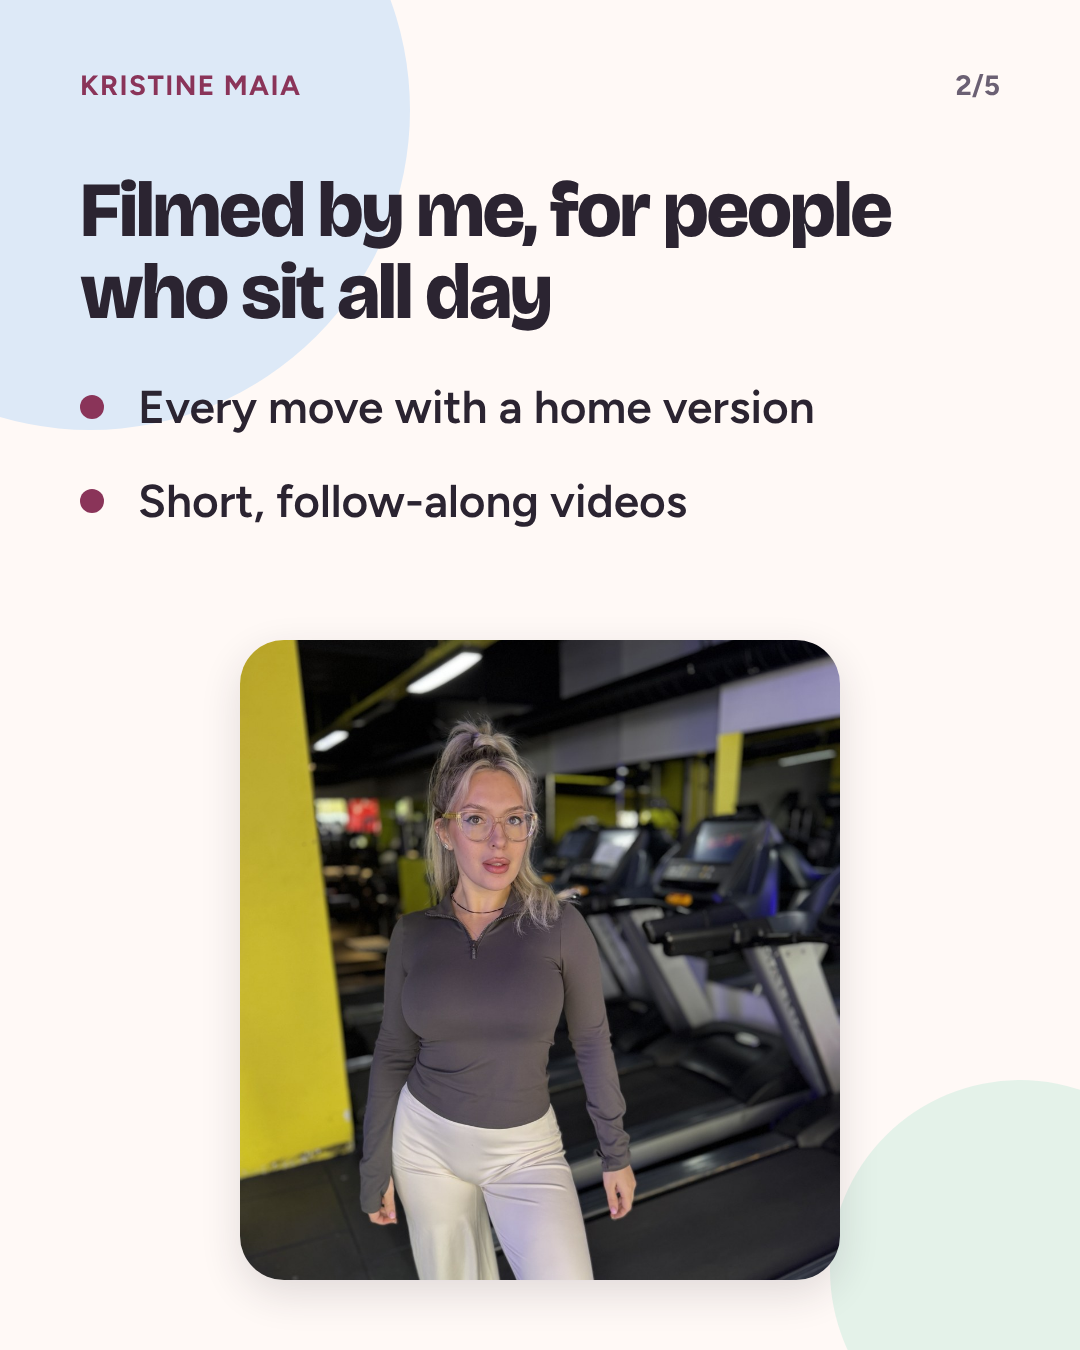
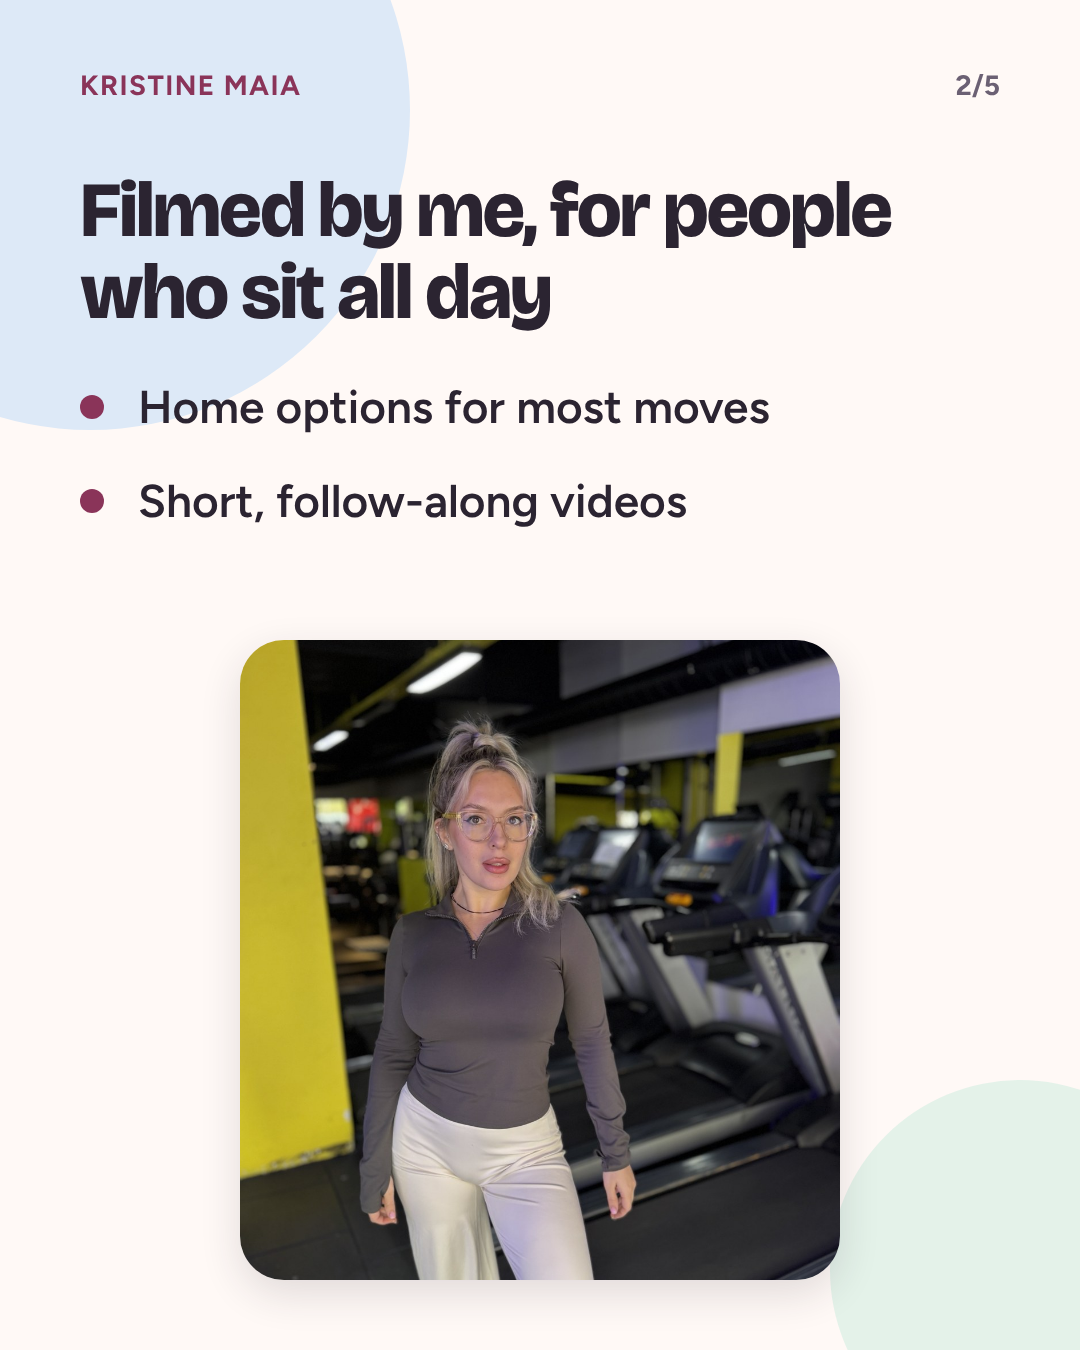
Caruselul W1: fără data lansării și fără „every move with a home version”
Claude-Session: https://claude.ai/code/session_01AYCYtwFQ1HqKG8gwud9c92

Changed region(s): [[0.1222, 0.28, 0.7639, 0.3422]]

diff --git a/brand/carousels-en/build_week1.py b/brand/carousels-en/build_week1.py
@@ -21,7 +21,7 @@ def slides():
         '<div class="card" style="left:200px;top:590px;width:680px;height:690px"><img src="%s" style="object-position:center 22%%"></div>' % img('wk-side.jpg'), 1))
     s.append(frame(2, '<div style="position:absolute;left:80px;right:80px;top:170px"><h2>Filmed by me, for people who sit all day</h2>%s</div>'
         '<div class="card" style="left:240px;top:640px;width:600px;height:640px"><img src="%s" style="object-position:center 20%%"></div>'
-        % (bullets(['Every move with a home version', 'Short, follow-along videos']), img('wk-front-walk.jpg')), 2, 'var(--blue)', 'var(--mint)'))
+        % (bullets(['Home options for most moves', 'Short, follow-along videos']), img('wk-front-walk.jpg')), 2, 'var(--blue)', 'var(--mint)'))
     s.append(frame(3, '<div style="position:absolute;left:80px;right:80px;top:150px"><h2>Legs, back, core, mobility</h2></div>'
         + tile('wk-picioare-goblet-a.jpg', 'Legs', 80, 300) + tile('wk-spate-lat-pulldown.jpg', 'Back', 560, 300)
         + tile('wk-core-plank-lateral.jpg', 'Core', 80, 810) + tile('wk-mobilitate-worlds-greatest-stretch.jpg', 'Mobility', 560, 810), 3, 'var(--lilac)', 'var(--pink)'))
@@ -29,7 +29,7 @@ def slides():
         '<div class="card" style="left:240px;top:700px;width:600px;height:580px"><img src="%s" style="object-position:center 18%%"></div>'
         % (bullets(['Your goal, your time, home or gym', 'A 2-minute quiz builds it']), img('wk-front-hip.jpg')), 4, 'var(--mint)', 'var(--blue)'))
     s.append(frame(5, '<div style="position:absolute;left:80px;right:80px;top:300px"><h1 style="font-size:100px">Your custom program</h1>'
-        '<p style="font-size:48px;font-weight:700;margin:36px 0 0;color:var(--wine)">Launching 16 November</p>'
+        '<p style="font-size:48px;font-weight:700;margin:36px 0 0;color:var(--wine)">Opening soon · join the waitlist</p>'
         '<p style="font-size:40px;font-weight:600;margin:30px 0 70px;line-height:1.3">Take the 2-minute quiz and get your plan.</p>'
         '<div class="btn">kristinemaia.com · link in bio</div></div>', 5, 'var(--pink)', 'var(--lilac)'))
     return s
